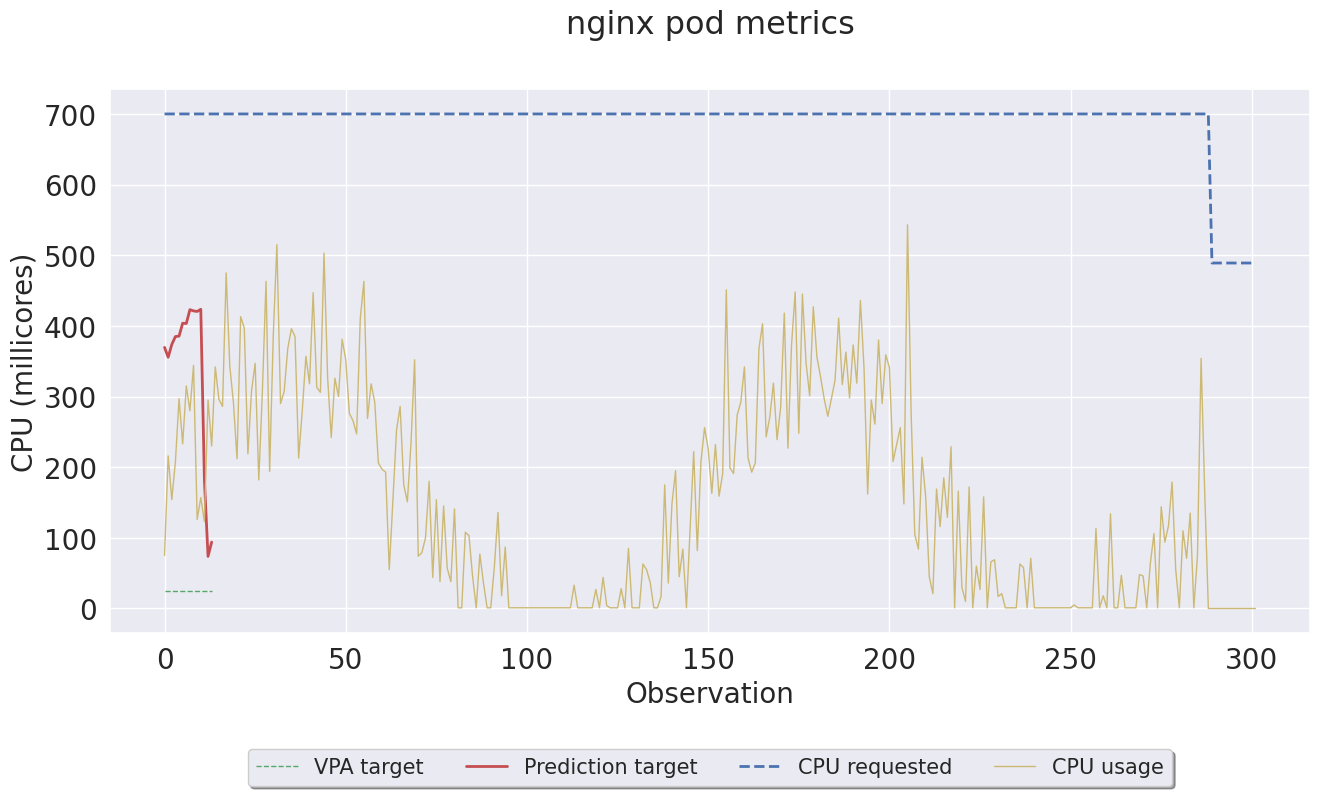
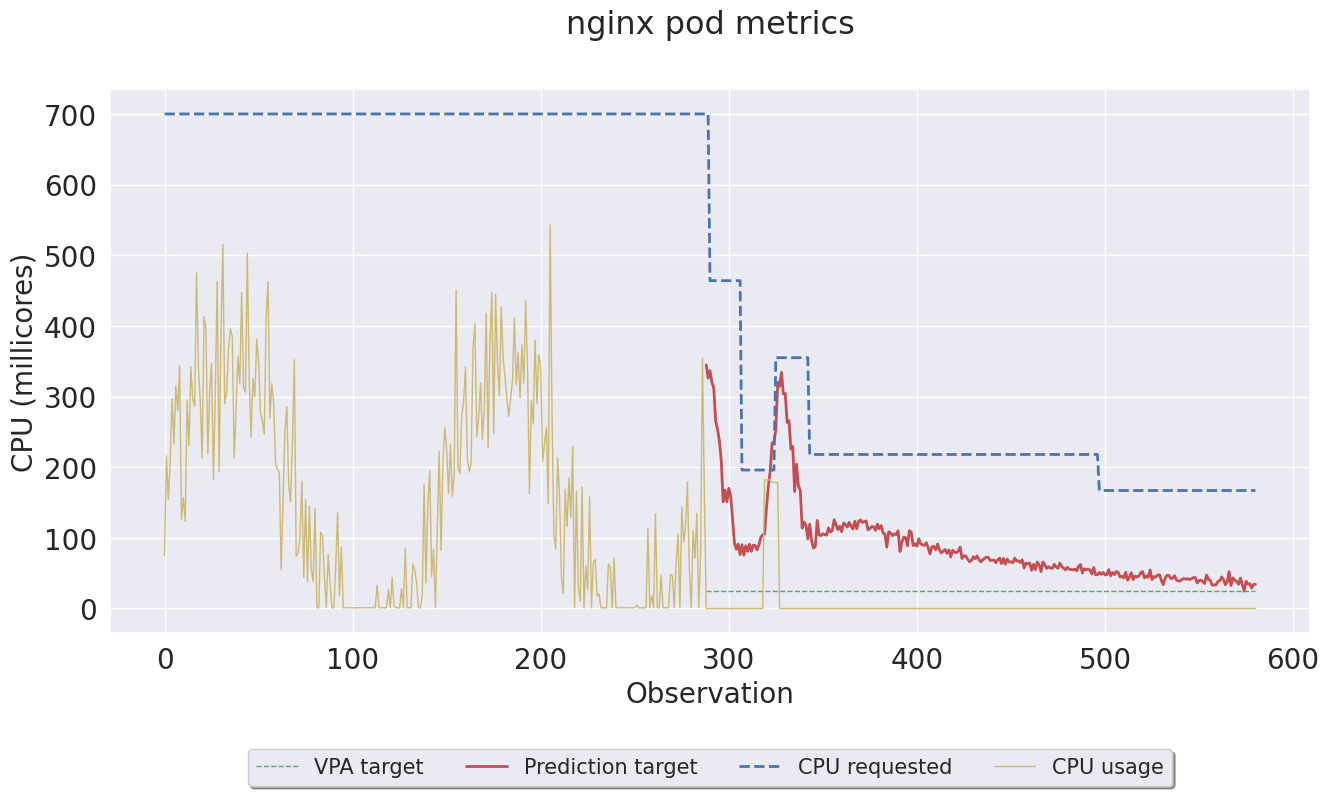
lstm testing online

diff --git a/kube/online/online.py b/kube/online/online.py
@@ -441,12 +441,12 @@ def update_main_plot():
 
     if current_step >= scaling_start_index: 
         # HW Prediction
-        pred_target, pred_lower, pred_upper = predict_HW(current_step)
+        # pred_target, pred_lower, pred_upper = predict_HW(current_step)
         # LSTM prediction
         # TODO model is created using all historical usages
-        # lstm_model = create_lstm(steps_in, steps_out,n_features, cpu_usages, ywindow)
-        # input_data = np.array(cpu_usages[-steps_in:])
-        # pred_target, pred_lower, pred_upper = predict_lstm(input_data, lstm_model,steps_in, n_features)
+        lstm_model = create_lstm(steps_in, steps_out,n_features, np.array(cpu_usages), ywindow)
+        input_data = np.array(cpu_usages[-steps_in:])
+        pred_target, pred_lower, pred_upper = predict_lstm(input_data, lstm_model,steps_in, n_features)
         
     
 
@@ -588,7 +588,7 @@ def main():
             fig1.savefig("./main.png",bbox_inches='tight')
             #fig2.savefig("./slack"+str(len(pred_targets))+".png", bbox_inches="tight")  TODO
             
-        sleeptime = 5.0 - ((time.time() - starttime) % 5.0)
+        sleeptime = 15.0 - ((time.time() - starttime) % 15.0)
         # sleeptime = 15.0 - ((time.time() - starttime) % 15.0)
         time.sleep(sleeptime)
         
